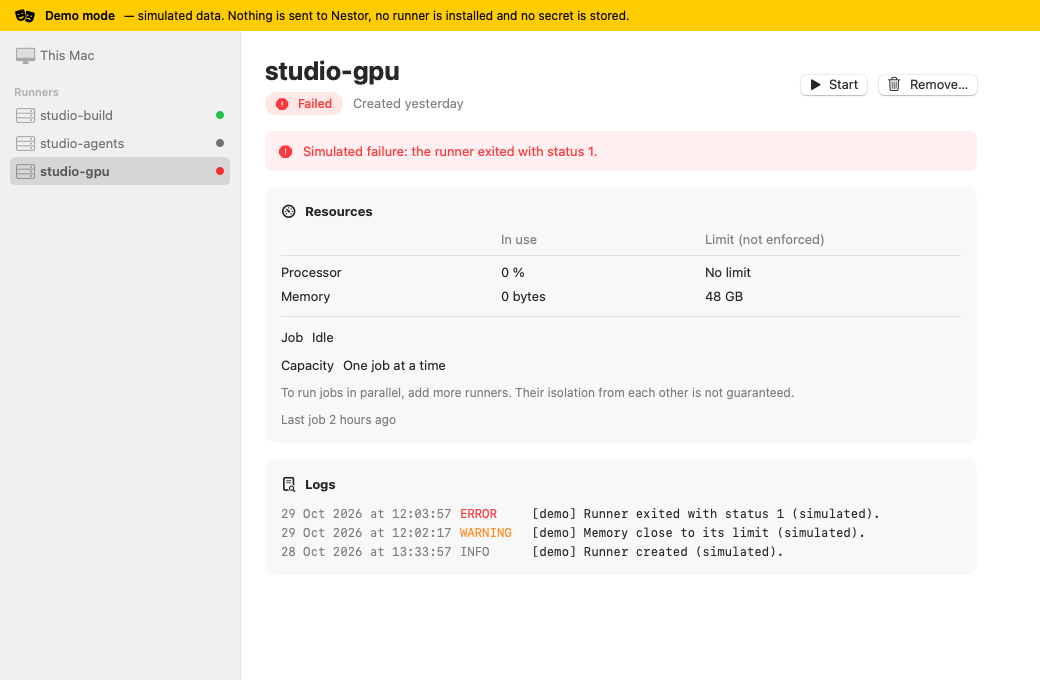
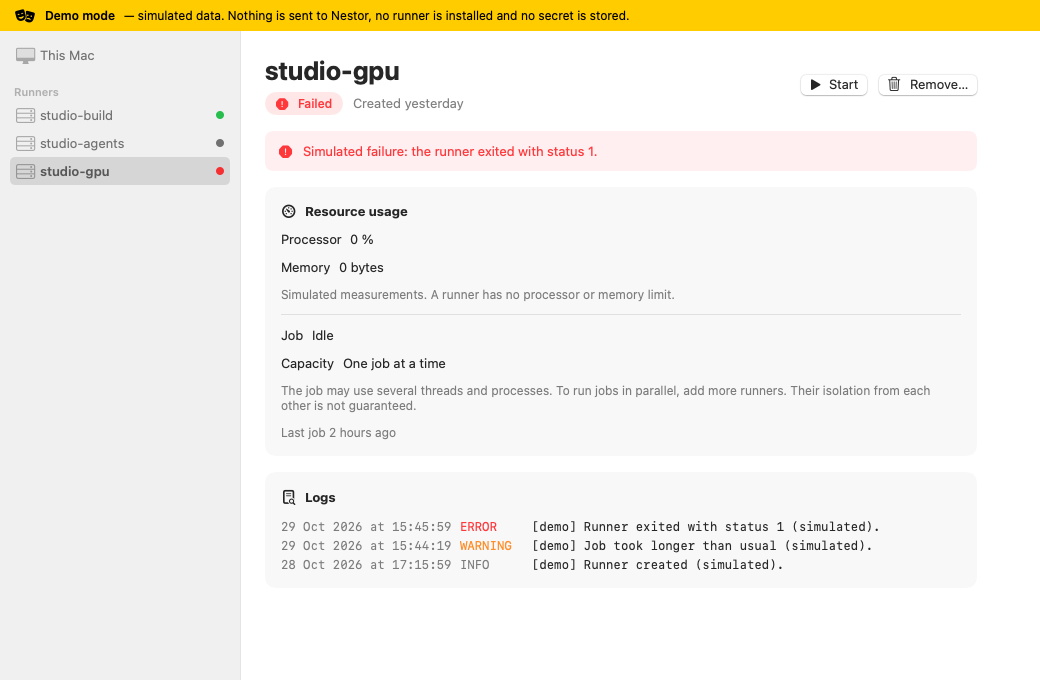
KCA-715: a runner has no processor or memory limit
Decision: no per-runner CPU or memory limit, neither configurable nor
imposed. ResourceLimits is gone from Runner and NewRunnerRequest, the
add-runner form loses its processor and memory toggles, and the demo
data no longer carries limits. The runner page keeps the measured
processor and memory usage under "Resource usage", stated as
measurements, not caps. A runner still takes one job at a time; that
job may use several threads and processes, and parallel work means
more runners. Log fetch caps, isolation and delays are unchanged.
README, architecture notes and screenshots updated.

diff --git a/apps/macos/Sources/RunnerManagerKit/Models.swift b/apps/macos/Sources/RunnerManagerKit/Models.swift
@@ -54,21 +54,11 @@ public enum RunnerState: String, Equatable, Sendable, CaseIterable {
     public var canRemove: Bool { self == .stopped || self == .failed }
 }
 
-/// Resource limits a runner is configured with. `nil` means no limit.
+/// What a runner is using right now, as measured. These are measurements, not caps: a runner has
+/// no processor or memory limit.
 ///
-/// There is no setting for the number of jobs: the Nestor runner takes no new job while one is
-/// running. To run jobs in parallel, a machine runs several runners. A job may use several cores.
-public struct ResourceLimits: Equatable, Sendable {
-    public var cpuCores: Int?
-    public var memoryBytes: UInt64?
-
-    public init(cpuCores: Int? = nil, memoryBytes: UInt64? = nil) {
-        self.cpuCores = cpuCores
-        self.memoryBytes = memoryBytes
-    }
-}
-
-/// What a runner is using right now.
+/// A runner takes one job at a time, as the Nestor runner does, and that job may use several
+/// threads and processes. To run jobs in parallel, a machine runs several runners.
 public struct ResourceUsage: Equatable, Sendable {
     public var cpuPercent: Double
     public var memoryBytes: UInt64
@@ -90,7 +80,6 @@ public struct Runner: Identifiable, Equatable, Sendable {
     public var state: RunnerState
     /// The last failure, shown while `state == .failed`.
     public var failureReason: String?
-    public var limits: ResourceLimits
     public var usage: ResourceUsage
     public var createdAt: Date
     public var lastJobAt: Date?
@@ -100,7 +89,6 @@ public struct Runner: Identifiable, Equatable, Sendable {
         name: String,
         state: RunnerState,
         failureReason: String? = nil,
-        limits: ResourceLimits = ResourceLimits(),
         usage: ResourceUsage = .idle,
         createdAt: Date,
         lastJobAt: Date? = nil
@@ -109,7 +97,6 @@ public struct Runner: Identifiable, Equatable, Sendable {
         self.name = name
         self.state = state
         self.failureReason = failureReason
-        self.limits = limits
         self.usage = usage
         self.createdAt = createdAt
         self.lastJobAt = lastJobAt
@@ -120,12 +107,10 @@ public struct Runner: Identifiable, Equatable, Sendable {
 /// by Nestor and stored by the service, never typed into the interface.
 public struct NewRunnerRequest: Equatable, Sendable {
     public var name: String
-    public var limits: ResourceLimits
     public var startNow: Bool
 
-    public init(name: String, limits: ResourceLimits = ResourceLimits(), startNow: Bool = true) {
+    public init(name: String, startNow: Bool = true) {
         self.name = name
-        self.limits = limits
         self.startNow = startNow
     }
 }

diff --git a/apps/macos/Sources/NestorRunnerManager/RunnerDetailView.swift b/apps/macos/Sources/NestorRunnerManager/RunnerDetailView.swift
@@ -83,29 +83,18 @@ struct RunnerDetailView: View {
     }
 
     private var resourcesCard: some View {
-        Card(title: "Resources", systemImage: "gauge.with.dots.needle.33percent") {
-            Grid(alignment: .leading, horizontalSpacing: 24, verticalSpacing: 8) {
-                GridRow {
-                    Text("").gridColumnAlignment(.leading)
-                    Text("In use").foregroundStyle(.secondary)
-                    Text(model.isDemo ? "Limit (not enforced)" : "Limit").foregroundStyle(.secondary)
-                }
-                Divider()
-                GridRow {
-                    Text("Processor")
-                    Text(Format.percent(runner.usage.cpuPercent))
-                    Text(runner.limits.cpuCores.map { "\($0) cores" } ?? "No limit")
-                }
-                GridRow {
-                    Text("Memory")
-                    Text(Format.bytes(runner.usage.memoryBytes))
-                    Text(runner.limits.memoryBytes.map(Format.bytes) ?? "No limit")
-                }
-            }
+        Card(title: "Resource usage", systemImage: "gauge.with.dots.needle.33percent") {
+            InfoRow(label: "Processor", value: Format.percent(runner.usage.cpuPercent))
+            InfoRow(label: "Memory", value: Format.bytes(runner.usage.memoryBytes))
+            Text(model.isDemo
+                 ? "Simulated measurements. A runner has no processor or memory limit."
+                 : "Measured now. A runner has no processor or memory limit.")
+                .font(.callout)
+                .foregroundStyle(.secondary)
             Divider()
             InfoRow(label: "Job", value: runner.usage.isRunningJob ? "Running a job" : "Idle")
             InfoRow(label: "Capacity", value: "One job at a time")
-            Text("To run jobs in parallel, add more runners. Their isolation from each other is not guaranteed.")
+            Text("The job may use several threads and processes. To run jobs in parallel, add more runners. Their isolation from each other is not guaranteed.")
                 .font(.callout)
                 .foregroundStyle(.secondary)
             if let lastJob = runner.lastJobAt {

diff --git a/apps/macos/Sources/RunnerManagerKit/DemoRunnerService.swift b/apps/macos/Sources/RunnerManagerKit/DemoRunnerService.swift
@@ -95,7 +95,6 @@ public actor DemoRunnerService: RunnerService {
         let runner = Runner(
             name: name,
             state: request.startNow ? .running : .stopped,
-            limits: request.limits,
             createdAt: created
         )
         runnerList.append(runner)
@@ -171,7 +170,6 @@ public actor DemoRunnerService: RunnerService {
         let build = Runner(
             name: "studio-build",
             state: .running,
-            limits: ResourceLimits(cpuCores: 12, memoryBytes: 64 * gib),
             usage: ResourceUsage(cpuPercent: 37.5, memoryBytes: 18 * gib, isRunningJob: true),
             createdAt: ago(86_400 * 3),
             lastJobAt: ago(120)
@@ -179,7 +177,6 @@ public actor DemoRunnerService: RunnerService {
         let agents = Runner(
             name: "studio-agents",
             state: .stopped,
-            limits: ResourceLimits(cpuCores: 8, memoryBytes: 32 * gib),
             createdAt: ago(86_400 * 2),
             lastJobAt: ago(7_200)
         )
@@ -187,7 +184,6 @@ public actor DemoRunnerService: RunnerService {
             name: "studio-gpu",
             state: .failed,
             failureReason: "Simulated failure: the runner exited with status 1.",
-            limits: ResourceLimits(memoryBytes: 48 * gib),
             createdAt: ago(86_400),
             lastJobAt: ago(5_400)
         )
@@ -204,7 +200,7 @@ public actor DemoRunnerService: RunnerService {
             ]),
             (gpu, [
                 LogEntry(date: ago(86_400), level: .info, message: "[demo] Runner created (simulated)."),
-                LogEntry(date: ago(5_500), level: .warning, message: "[demo] Memory close to its limit (simulated)."),
+                LogEntry(date: ago(5_500), level: .warning, message: "[demo] Job took longer than usual (simulated)."),
                 LogEntry(date: ago(5_400), level: .error, message: "[demo] Runner exited with status 1 (simulated)."),
             ]),
         ]

diff --git a/apps/macos/Sources/NestorRunnerManager/AddRunnerSheet.swift b/apps/macos/Sources/NestorRunnerManager/AddRunnerSheet.swift
@@ -23,26 +23,6 @@ struct AddRunnerSheet: View {
                         .foregroundStyle(.secondary)
                 }
                 Section {
-                    Toggle("Limit processor", isOn: $form.limitsCPU)
-                    if form.limitsCPU {
-                        Stepper("\(form.cpuCores) cores", value: $form.cpuCores, in: 1...64)
-                    }
-                    Toggle("Limit memory", isOn: $form.limitsMemory)
-                    if form.limitsMemory {
-                        Stepper("\(form.memoryGiB) GB", value: $form.memoryGiB, in: 1...512)
-                    }
-                } header: {
-                    Text("Resources")
-                } footer: {
-                    VStack(alignment: .trailing, spacing: 4) {
-                        Text("A runner takes one job at a time; a job may use several cores. To run jobs in parallel, add more runners — their isolation from each other is not guaranteed.")
-                        if model.isDemo {
-                            Text("Demo: limits are recorded, not enforced.")
-                        }
-                    }
-                    .foregroundStyle(.secondary)
-                }
-                Section {
                     Toggle("Start the runner now", isOn: $form.startNow)
                 } footer: {
                     Text(model.isDemo

diff --git a/apps/macos/Sources/NestorRunnerManager/Snapshots.swift b/apps/macos/Sources/NestorRunnerManager/Snapshots.swift
@@ -20,7 +20,7 @@ enum Snapshots {
             ("01-overview", AnyView(ContentView(model: populated)), size),
             ("02-runner-running", AnyView(ContentView(model: populated, selection: byName["studio-build"].map(SidebarItem.runner))), size),
             ("03-runner-failed", AnyView(ContentView(model: populated, selection: byName["studio-gpu"].map(SidebarItem.runner))), size),
-            ("04-add-runner", AnyView(AddRunnerSheet(model: populated, form: sampleForm(), onAdded: { _ in })), NSSize(width: 460, height: 560)),
+            ("04-add-runner", AnyView(AddRunnerSheet(model: populated, form: sampleForm(), onAdded: { _ in })), NSSize(width: 460, height: 340)),
             ("05-not-associated", AnyView(ContentView(model: loadedModel(.notAssociated))), size),
             ("06-no-runner", AnyView(ContentView(model: loadedModel(.empty))), size),
             ("07-service-unavailable", AnyView(ContentView(model: loadedModel(.unavailable))), size),
@@ -40,8 +40,6 @@ enum Snapshots {
     private static func sampleForm() -> AddRunnerForm {
         let form = AddRunnerForm()
         form.name = "studio-ci"
-        form.limitsMemory = true
-        form.memoryGiB = 32
         return form
     }
 

diff --git a/apps/macos/Sources/RunnerManagerKit/AddRunnerForm.swift b/apps/macos/Sources/RunnerManagerKit/AddRunnerForm.swift
@@ -10,10 +10,6 @@ import Observation
 @Observable
 public final class AddRunnerForm {
     public var name = ""
-    public var limitsCPU = false
-    public var cpuCores = 4
-    public var limitsMemory = false
-    public var memoryGiB = 16
     public var startNow = true
 
     public private(set) var isSubmitting = false
@@ -43,14 +39,7 @@ public final class AddRunnerForm {
     }
 
     public var request: NewRunnerRequest {
-        NewRunnerRequest(
-            name: name,
-            limits: ResourceLimits(
-                cpuCores: limitsCPU ? cpuCores : nil,
-                memoryBytes: limitsMemory ? UInt64(memoryGiB) << 30 : nil
-            ),
-            startNow: startNow
-        )
+        NewRunnerRequest(name: name, startNow: startNow)
     }
 
     /// Sends the request once; returns the created runner, or nil if it failed or was already sending.

diff --git a/apps/macos/Tests/RunnerManagerKitTests/DemoRunnerServiceTests.swift b/apps/macos/Tests/RunnerManagerKitTests/DemoRunnerServiceTests.swift
@@ -35,12 +35,11 @@ import Testing
         #expect(runner.state == .running)
     }
 
-    @Test func addedRunnerKeepsItsLimitsAndCanStayStopped() async throws {
+    @Test func addedRunnerCanStayStopped() async throws {
         let demo = service(.empty)
-        let limits = ResourceLimits(cpuCores: 2, memoryBytes: 8 << 30)
-        let runner = try await demo.addRunner(NewRunnerRequest(name: "  ci  ", limits: limits, startNow: false))
+        let runner = try await demo.addRunner(NewRunnerRequest(name: "  ci  ", startNow: false))
         #expect(runner.name == "ci")
-        #expect(runner.limits == limits)
+        #expect(runner.usage == .idle)
         #expect(runner.state == .stopped)
         #expect(try await demo.runners().map(\.id) == [runner.id])
         let logs = try await demo.logs(runnerID: runner.id, limit: 10)

diff --git a/apps/macos/Tests/RunnerManagerKitTests/AddRunnerFormTests.swift b/apps/macos/Tests/RunnerManagerKitTests/AddRunnerFormTests.swift
@@ -71,17 +71,11 @@ private actor GatedRunnerService: RunnerService {
         #expect(model.runners.value?.count == 3)
     }
 
-    @Test func buildsTheRequestFromTheChosenLimits() {
+    @Test func buildsTheRequestFromTheNameAndStartChoice() {
         let form = AddRunnerForm()
         form.name = "ci"
-        form.limitsMemory = true
-        form.memoryGiB = 32
         form.startNow = false
-        #expect(form.request == NewRunnerRequest(
-            name: "ci",
-            limits: ResourceLimits(cpuCores: nil, memoryBytes: 32 << 30),
-            startNow: false
-        ))
+        #expect(form.request == NewRunnerRequest(name: "ci", startNow: false))
     }
 
     @Test func invalidNameBlocksSubmission() {

diff --git a/docs/architecture.md b/docs/architecture.md
@@ -1,6 +1,6 @@
 # Architecture
 
-Nestor Runner Manager is planned as native interfaces per operating system on top of one shared core written in Rust, with OS-specific integrations (services, keychains, resource limits). This repository starts with the macOS interface; the core and the other clients come next.
+Nestor Runner Manager is planned as native interfaces per operating system on top of one shared core written in Rust, with OS-specific integrations (services, keychains). This repository starts with the macOS interface; the core and the other clients come next.
 
 ```
 ┌──────────────────────────┐   ┌──────────────┐   ┌──────────────┐
@@ -24,7 +24,7 @@ Nestor Runner Manager is planned as native interfaces per operating system on to
 `apps/macos` is a Swift package with two targets:
 
 - **`RunnerManagerKit`** — no SwiftUI. It holds:
-  - the models (`MachineInfo`, `NestorConnection`, `Runner`, `ResourceLimits`, `ResourceUsage`, `LogEntry`, `NewRunnerRequest`);
+  - the models (`MachineInfo`, `NestorConnection`, `Runner`, `ResourceUsage`, `LogEntry`, `NewRunnerRequest`);
   - **`RunnerService`**, the only way the interface reaches the machine: machine information, connection, association, list, add, start, stop, remove and logs, all `async throws`. Its `mode` (`.demo` or `.live`) decides whether the demo banner is shown;
   - **`DemoRunnerService`**, the simulated implementation, kept in memory, with scenarios for each screen state;
   - **`RunnerManagerModel`**, the observable interface state (loading / loaded / failed per section, commands in flight, last error), tested without SwiftUI.
@@ -40,4 +40,5 @@ How that implementation reaches the core is not decided yet: calling a command-l
 - No workspace is assigned locally: that happens on the Nestor web app.
 - Every simulated command and log line says so (`[demo]`, “Simulated”), and the demo banner cannot be hidden.
 - A runner must be stopped before it is removed.
-- A runner takes one job at a time, like the existing Nestor runner: there is no setting for the number of jobs, and parallel work means several runners, whose isolation from each other is not guaranteed. Processor and memory limits are not enforced in the demo.
+- A runner takes one job at a time, like the existing Nestor runner: there is no setting for the number of jobs, and that job may use several threads and processes. Parallel work means several runners, whose isolation from each other is not guaranteed.
+- A runner has no processor or memory limit, neither configurable nor imposed. `ResourceUsage` carries measurements only (processor percentage, memory in use), shown as such on the runner's page.

diff --git a/README.md b/README.md
@@ -10,10 +10,10 @@ A desktop application to add, start, stop, remove and diagnose the Nestor runner
 
 - **This Mac**: the machine, its association with Nestor and a summary of its runners.
 - **Runners**: the list in the sidebar, with each runner's state.
-- **A runner's page**: state, resources in use against their limits, whether it is running a job, start / stop / remove actions and the logs.
-- **Add a runner**: a name, optional processor and memory limits, and whether to start it now.
+- **A runner's page**: state, measured processor and memory usage, whether it is running a job, start / stop / remove actions and the logs.
+- **Add a runner**: a name and whether to start it now.
 
-A runner takes **one job at a time**, as the existing Nestor runner does; a job may use several processor cores. To run jobs in parallel, add more runners — their isolation from each other is not guaranteed. In the demo, the processor and memory limits are recorded but not enforced.
+A runner takes **one job at a time**, as the existing Nestor runner does; that job may use several threads and processes. To run jobs in parallel, add more runners — their isolation from each other is not guaranteed. A runner has no processor or memory limit: the figures on its page are measurements of what it uses, not caps (simulated in the demo).
 - Loading, empty, not-associated and error states.
 
 Workspaces are not assigned here: on the Nestor web app, a workspace is assigned to a runner or a pool of runners. The interface never asks for a password or a token; in the real version, the association is confirmed in the browser and Nestor issues each runner its own credential.
